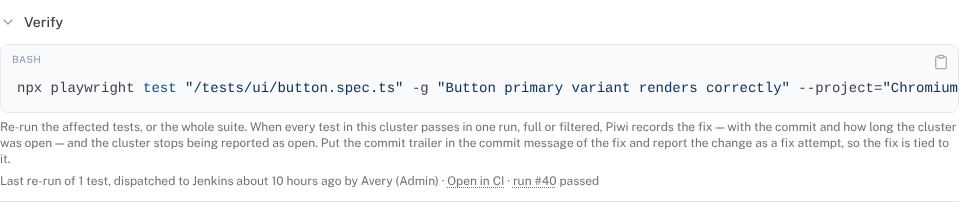
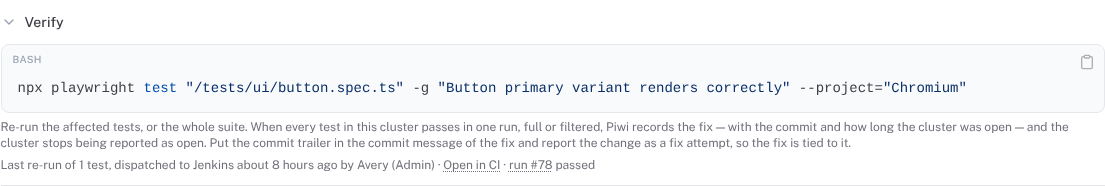
docs: say which re-runs match by their files, and recapture the last re-run
The matching section said every re-run unmatched at its end matches by
its files, and that a GitHub workflow never needs a change. Only a CI
server re-run, or a GitHub one answered without a run, matches by its
files, and a whole suite GitHub answers without a run matches only by
the dispatch id input. The figure is captured at 1600 px, so the Verify
command shows whole, on the seeded one-test re-run.

Claude-Session: https://claude.ai/code/session_01ADXAbctosGXfcWjUKDcuZN

diff --git a/apps/docs/features/ci-rerun.md b/apps/docs/features/ci-rerun.md
@@ -216,17 +216,17 @@ address). See the [configuration reference](/reference/configuration).
 
 ## Matching the run
 
-Piwi keeps every dispatch and matches its run as that run starts: by the dispatch id the run carries as
-`PIWI_ORIGIN_REF`, else by the CI's own run id (GitHub's run, GitLab's pipeline, Bitbucket's build), and a Flake Lab run
-by its experiment's test. A re-run unmatched at its end matches by its branch, a start within six hours and exactly its
-spec files.
+Piwi matches each dispatch's run as it starts: by the `PIWI_ORIGIN_REF` the run carries, else by the CI's own run id
+(GitHub's run, GitLab's pipeline, Bitbucket's build), and a Flake Lab run by its experiment's test. At its end, a CI
+server re-run, or a GitHub one answered without a run, matches by branch, a start within six hours and exactly its spec
+files.
 
-A matched re-run's [origin](/reference/test-metadata#run-origin) is `ci-rerun`; the last re-run links its build and its
-run with its result, or reads *no run reported* after six hours. A repeat within ten seconds is refused; dispatches are
-kept 90 days.
+A matched re-run's [origin](/reference/test-metadata#run-origin) is `ci-rerun`; the last re-run links its build and run
+with its result, or reads *no run reported* after six hours. A repeat within ten seconds is refused; dispatches are kept
+90 days.
 
-GitHub answers each dispatch with its run, so a workflow needs no change. The dispatch id input is optional (GitHub
-rejects undeclared inputs); to declare it, pass it on as `PIWI_ORIGIN_REF`:
+A workflow GitHub answers with its run needs no change; otherwise the dispatch id input, optional since GitHub refuses
+undeclared ones and passed on as `PIWI_ORIGIN_REF`, alone matches a whole suite:
 
 ```yaml
 on:
